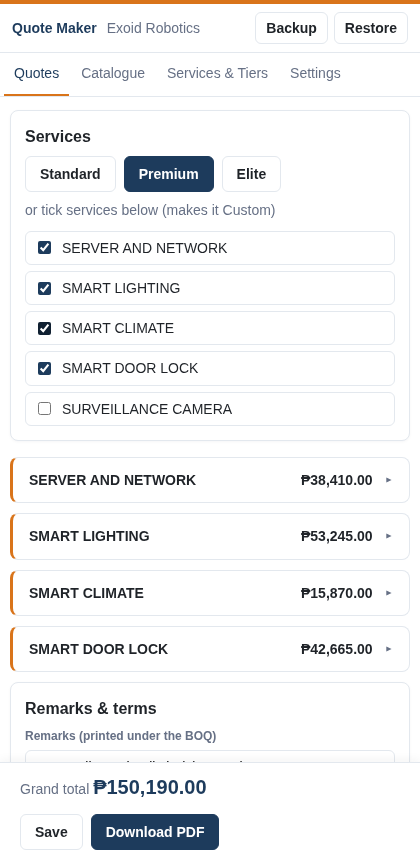
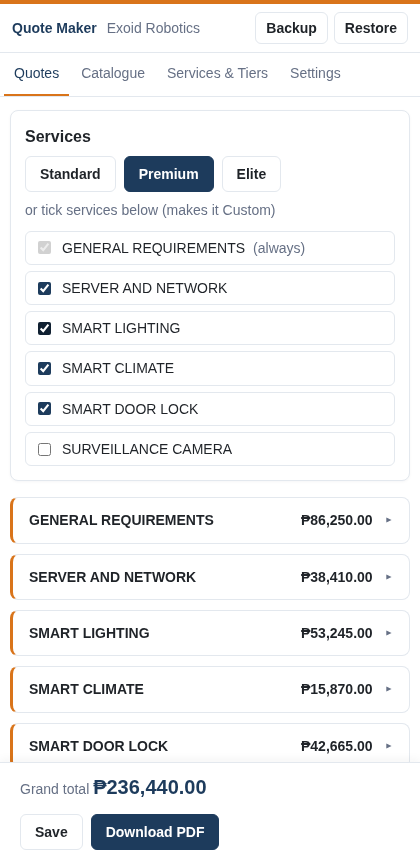
feat: General Requirements always on every quote, and listed in What's included
- services can be marked Always included (General Requirements is by default, also on
  quotes saved earlier); they are ticked and locked on quotes and never change the tier name
- What's included lists Rendered Interactive Floorplan, Mobilization/Demobilization and
  Project Management with default texts

diff --git a/src/model.js b/src/model.js
@@ -44,16 +44,21 @@ export function snapshotPayItem(tpl, catalogue) {
   };
 }
 
+// On every quote whatever the tier (floorplan, mobilization, project management): flagged in Services & Tiers,
+// and General Requirements counts by default so existing templates need no setup.
+export const isAlways = svc => svc.always ?? /general requirements/i.test(svc.title || '');
+
 const snapshotService = (svc, catalogue) => ({
-  serviceId: svc.id, title: svc.title, order: svc.order, about: svc.about ?? '',
+  serviceId: svc.id, title: svc.title, order: svc.order, about: svc.about ?? '', always: isAlways(svc),
   payItems: svc.payItems.map(p => snapshotPayItem(p, catalogue)),
 });
 const byOrder = (a, b) => (a.order ?? 0) - (b.order ?? 0);
 
-export function tierFor(serviceIds, tiers) {
-  const set = new Set(serviceIds);
+// `skip`: always-included service ids, which never decide the tier.
+export function tierFor(serviceIds, tiers, skip = []) {
+  const set = new Set(serviceIds.filter(id => !skip.includes(id)));
   if (!set.size) return 'Custom';
-  const t = tiers.find(t => t.serviceIds.length === set.size && t.serviceIds.every(id => set.has(id)));
+  const t = tiers.find(t => { const ids = t.serviceIds.filter(id => !skip.includes(id)); return ids.length === set.size && ids.every(id => set.has(id)); });
   return t ? t.name : 'Custom';
 }
 
@@ -80,7 +85,7 @@ export function buildQuote({ services, catalogue, settings, serviceIds, tierName
     client: { owner: '', address: '', project: '', email: '' },
     contractor: { enterprise: '', rep: '', contact: '', email: '' },
     generalContractor: '', conforme: { name: '', title: 'Owner' },
-    services: services.filter(s => serviceIds.includes(s.id)).sort(byOrder).map(s => snapshotService(s, catalogue)),
+    services: services.filter(s => serviceIds.includes(s.id) || isAlways(s)).sort(byOrder).map(s => snapshotService(s, catalogue)),
     remarks: '',
     paymentTerms: structuredClone(settings.paymentTerms),
     preparer: structuredClone(settings.preparer),
@@ -88,14 +93,18 @@ export function buildQuote({ services, catalogue, settings, serviceIds, tierName
   };
 }
 
+const tierOf = (services, tiers) => tierFor(services.map(s => s.serviceId), tiers, services.filter(isAlways).map(s => s.serviceId));
+
 export function addService(quote, service, catalogue, tiers) {
   const services = [...quote.services.filter(s => s.serviceId !== service.id), snapshotService(service, catalogue)].sort(byOrder);
-  return { ...quote, services, tierName: tierFor(services.map(s => s.serviceId), tiers) };
+  return { ...quote, services, tierName: tierOf(services, tiers) };
 }
 
 export function removeService(quote, serviceId, tiers) {
+  const svc = quote.services.find(s => s.serviceId === serviceId);
+  if (svc && isAlways(svc)) return quote;
   const services = quote.services.filter(s => s.serviceId !== serviceId);
-  return { ...quote, services, tierName: tierFor(services.map(s => s.serviceId), tiers) };
+  return { ...quote, services, tierName: tierOf(services, tiers) };
 }
 
 export function duplicateQuote(quote) {
@@ -105,7 +114,7 @@ export function duplicateQuote(quote) {
 
 // Clicking a tier: select exactly its services; services already on the quote keep their edits.
 export function applyTier(quote, tier, services, catalogue, tiers) {
-  const chosen = services.filter(s => tier.serviceIds.includes(s.id)).sort(byOrder)
+  const chosen = services.filter(s => tier.serviceIds.includes(s.id) || isAlways(s)).sort(byOrder)
     .map(s => quote.services.find(q => q.serviceId === s.id) ?? snapshotService(s, catalogue));
-  return { ...quote, services: chosen, tierName: tierFor(chosen.map(s => s.serviceId), tiers) };
+  return { ...quote, services: chosen, tierName: tierOf(chosen, tiers) };
 }

diff --git a/src/pdf.js b/src/pdf.js
@@ -2,6 +2,7 @@
 // cover → what's included → BOQ → Proforma Invoice → one DUPA per pay item. Tables keep the Casa layout.
 import { quoteTotals, lineQty, lineTotal, fmtNum, num } from './calc.js';
 import { aboutFor, aboutTitle } from './about.js';
+import { isAlways } from './model.js';
 
 // Brand: navy #1D3B5C (headings, table heads, totals, icon badges), orange #D9741A (small accents), white pages.
 const C = { navy: '#1D3B5C', orange: '#D9741A', soft: '#EAF0F6', warm: '#FBEFE3', zebra: '#F7F9FB', ink: '#1F2328', muted: '#667085', line: '#E3E8EE' };
@@ -55,7 +56,7 @@ const ICONS = {
 const ICON_RULES = [
   [/light|switch|lamp/i, 'bulb'], [/climate|aircon|\bac\b|hvac/i, 'climate'], [/lock|door/i, 'lock'],
   [/camera|cctv|surveillance/i, 'camera'], [/server|network|wifi|wi-fi/i, 'wifi'], [/cover|curtain|blind|shade/i, 'curtain'],
-  [/gate/i, 'gate'], [/presence|sensor|alarm|entry|security/i, 'shield'], [/voice|alexa|google|speaker/i, 'mic'],
+  [/mobili[sz]|management|supervis/i, 'tools'], [/gate/i, 'gate'], [/presence|sensor|alarm|entry|security/i, 'shield'], [/voice|alexa|google|speaker/i, 'mic'],
   [/panel|control|tablet|screen/i, 'panel'], [/film|glass|window/i, 'film'], [/wiring|electrical|requirement|condition|assessment/i, 'tools'],
 ];
 const iconFor = title => ICON_RULES.find(([re]) => re.test(title))?.[1] ?? 'house';
@@ -202,17 +203,20 @@ function coverPage(q, settings) {
 // One paragraph per included service: its own description, else the default for its kind. No counts or prices.
 function includedPage(q, totals) {
   const sections = [...new Set(totals.items.map(it => it.serviceIdx))].map(i => q.services[i]);
-  const entries = sections.map(svc => ({ svc, about: s(svc.about).trim() || aboutFor(svc.title) })).filter(e => e.about);
+  // Always-included services (General Requirements) list their own items: floorplan, mobilization, project management.
+  const entries = sections.flatMap(svc => (isAlways(svc) && !s(svc.about).trim()
+    ? svc.payItems.map(p => ({ svc, title: s(p.description), about: aboutFor(p.description) }))
+    : [{ svc, title: svc.title, about: s(svc.about).trim() || aboutFor(svc.title) }])).filter(e => e.about);
   const dense = entries.length > 8; // keep a full Elite list on one page
   return [
     { text: '', pageBreak: 'before' },
     sectionTitle("WHAT'S INCLUDED"),
     { text: `Your ${s(q.tierName)} smart home package.`, color: C.muted, margin: [0, -4, 0, dense ? 10 : 16] },
-    ...entries.map(({ svc, about }) => ({
+    ...entries.map(({ svc, title, about }) => ({
       unbreakable: true, margin: [0, 0, 0, dense ? 9 : 14], columnGap: 12,
       columns: [
-        { ...icon(iconFor(svc.title), dense ? 20 : 24), width: dense ? 20 : 24 },
-        { width: '*', fontSize: dense ? 8.6 : 9.5, lineHeight: 1.25, text: [{ text: `${aboutTitle(svc.title)}: `, bold: true, color: C.navy }, about] },
+        { ...icon(iconFor(title), dense ? 20 : 24), width: dense ? 20 : 24 },
+        { width: '*', fontSize: dense ? 8.6 : 9.5, lineHeight: 1.25, text: [{ text: `${isAlways(svc) ? title : aboutTitle(title)}: `, bold: true, color: C.navy }, about] },
       ],
     })),
   ];

diff --git a/src/ui/quote.js b/src/ui/quote.js
@@ -1,6 +1,6 @@
 import { esc, field, bindInputs, debounce, money, showValue, readInput } from './dom.js';
 import { mountTerms } from './settings.js';
-import { addService, removeService, applyTier, suggestCode, addMonths } from '../model.js';
+import { addService, removeService, applyTier, suggestCode, addMonths, isAlways } from '../model.js';
 import { quoteTotals, payItemTotals, lineQty, lineTotal, fmtNum, num } from '../calc.js';
 import { downloadPdf } from '../pdf.js';
 
@@ -117,7 +117,9 @@ export function render(main, ctx, id) {
       <div class="row" style="margin-bottom:10px">${tiers.map(t => `<button class="chip ${q.tierName === t.name ? 'on' : ''}" data-tier="${esc(t.id)}"
         ${t.serviceIds.length ? '' : 'disabled title="No services in this tier yet (Services & Tiers)"'}>${esc(t.name)}</button>`).join('')}
         <span class="muted">or tick services below (makes it Custom)</span></div>
-      <div class="checks">${[...services].sort((a, b) => a.order - b.order).map(s => `<label><input type="checkbox" data-svc="${esc(s.id)}" ${on.has(s.id) ? 'checked' : ''}> ${esc(s.title)}</label>`).join('')}
+      <div class="checks">${[...services].sort((a, b) => a.order - b.order).map(s => (isAlways(s)
+        ? `<label title="Always included (Services & Tiers)"><input type="checkbox" checked disabled> ${esc(s.title)} <span class="muted">(always)</span></label>`
+        : `<label><input type="checkbox" data-svc="${esc(s.id)}" ${on.has(s.id) ? 'checked' : ''}> ${esc(s.title)}</label>`)).join('')}
         ${q.services.filter(s => !services.some(x => x.id === s.serviceId)).map(s => `<label><input type="checkbox" data-svc="${esc(s.serviceId)}" checked> ${esc(s.title)} <span class="muted">(no longer in templates)</span></label>`).join('')}</div>`;
     main.querySelector('[data-tier-label]').textContent = q.tierName;
   };
@@ -125,7 +127,7 @@ export function render(main, ctx, id) {
     const b = e.target.closest('[data-tier]');
     if (!b) return;
     const tier = tiers.find(t => t.id === b.dataset.tier);
-    const leaving = q.services.filter(s => !tier.serviceIds.includes(s.serviceId));
+    const leaving = q.services.filter(s => !isAlways(s) && !tier.serviceIds.includes(s.serviceId));
     if (leaving.length && !confirm(`Switch to ${tier.name}? This removes: ${leaving.map(s => s.title).join(', ')}.`)) return;
     Object.assign(q, applyTier(q, tier, services, catalogue, tiers), { paymentTerms: q.paymentTerms });
     afterServicesChanged();

diff --git a/tests/model.test.js b/tests/model.test.js
@@ -1,6 +1,6 @@
 import { test } from 'node:test';
 import assert from 'node:assert/strict';
-import { newId, DEFAULT_SETTINGS, snapshotPayItem, buildQuote, addService, removeService, tierFor, suggestCode, duplicateQuote, addMonths, applyTier } from '../src/model.js';
+import { newId, DEFAULT_SETTINGS, snapshotPayItem, buildQuote, addService, removeService, tierFor, suggestCode, duplicateQuote, addMonths, applyTier, isAlways } from '../src/model.js';
 import { quoteTotals } from '../src/calc.js';
 
 const catalogue = [
@@ -106,4 +106,31 @@ test('quotes keep the service description from the template', () => {
   const svc = [{ ...services[1], about: 'Climate words' }];
   const q = buildQuote({ services: svc, catalogue, settings: DEFAULT_SETTINGS, serviceIds: ['climate'], tierName: 'Custom', today: '2026-10-23' });
   assert.equal(q.services[0].about, 'Climate words');
+});
+
+// General Requirements (floorplan, mobilization, project management) is on every quote, whatever the tier.
+const gen = { id: 'gen', title: 'GENERAL REQUIREMENTS', order: 0, payItems: [tpl('plan', 'sw', 'g1')] };
+const withGen = [gen, ...services];
+
+test('always-included services: General Requirements by title, or the always flag', () => {
+  assert.equal(isAlways(gen), true);
+  assert.equal(isAlways(services[0]), false);
+  assert.equal(isAlways({ ...services[0], always: true }), true);
+  assert.equal(isAlways({ ...gen, always: false }), false);
+});
+
+test('new quotes and tiers always include General Requirements, and the tier name still matches', () => {
+  const q = buildQuote({ services: withGen, catalogue, settings: DEFAULT_SETTINGS, serviceIds: [], tierName: 'Custom', today: '2026-11-24' });
+  assert.deepEqual(q.services.map(s => s.serviceId), ['gen']);
+  const t = applyTier(q, tiers[0], withGen, catalogue, tiers);
+  assert.deepEqual(t.services.map(s => s.serviceId), ['gen', 'climate', 'lighting']);
+  assert.equal(t.tierName, 'Premium');
+  const back = removeService(t, 'lighting', tiers);
+  assert.equal(back.tierName, 'Custom');
+  assert.equal(addService(back, services[0], catalogue, tiers).tierName, 'Premium');
+});
+
+test('General Requirements cannot be removed from a quote', () => {
+  const q = buildQuote({ services: withGen, catalogue, settings: DEFAULT_SETTINGS, serviceIds: ['climate'], tierName: 'Custom', today: '2026-11-24' });
+  assert.deepEqual(removeService(q, 'gen', tiers).services.map(s => s.serviceId), ['gen', 'climate']);
 });

diff --git a/src/ui/services.js b/src/ui/services.js
@@ -1,6 +1,6 @@
 import { aboutFor } from '../about.js';
 import { esc, setPath, readInput, debounce, showValue } from './dom.js';
-import { newId, snapshotPayItem } from '../model.js';
+import { newId, snapshotPayItem, isAlways } from '../model.js';
 import { payItemTotals, fmtPeso } from '../calc.js';
 
 const KINDS = [['material', 'Materials'], ['labor', 'Labor'], ['equipment', 'Equipment']];
@@ -152,7 +152,9 @@ function mountDetail(el, svc, ctx) {
       <div class="card"><div class="spread">
         <label class="field" style="flex:1"><span>Service title (BOQ section)</span><input data-title value="${esc(svc.title)}"></label>
         <button class="danger" data-del-svc>Delete service</button></div>
-        <label class="field"><span>Client description ("What's included" page; blank uses the default${aboutFor(svc.title) ? '' : ' — none for this service, so it is left off'})</span>
+        <label class="row" style="margin:6px 0 10px"><input type="checkbox" data-always ${isAlways(svc) ? 'checked' : ''}>
+          Always included in every quote, whatever the tier (e.g. General Requirements: floorplan, mobilization, project management)</label>
+        <label class="field"><span>Client description ("What's included" page; blank uses the default${isAlways(svc) ? ', listed item by item' : aboutFor(svc.title) ? '' : ' — none for this service, so it is left off'})</span>
           <textarea data-about rows="3" placeholder="${esc(aboutFor(svc.title))}">${esc(svc.about ?? '')}</textarea></label></div>
       ${svc.payItems.map((p, i) => payItemHtml(p, i, catalogue)).join('')}
       <button class="ghost" data-add-pi>+ Add pay item</button>`;
@@ -170,6 +172,7 @@ function mountDetail(el, svc, ctx) {
     const t = e.target;
     if (t.matches('[data-title]')) { svc.title = t.value; return save(); }
     if (t.matches('[data-about]')) { svc.about = t.value; return save(); }
+    if (t.matches('[data-always]')) { svc.always = t.checked; return save(); }
     const pi = piOf(t);
     if (!pi) return;
     if (t.dataset.ppath) {

diff --git a/src/about.js b/src/about.js
@@ -1,6 +1,10 @@
 // Default client-facing descriptions for the "What's included" page, matched by service title.
 // A service's own description (Services & Tiers) always wins; services with neither are left off that page.
 const DEFAULTS = [
+  // General Requirements items (matched by pay item name)
+  [/floor\s*plan/i, "A custom, 3D-rendered interactive model of your home's floor plan, built from your house plans. It powers the control panel, so every light, aircon and device appears where it is in your home and can be seen and controlled at a glance."],
+  [/mobili[sz]ation/i, "Transport of our team, tools and equipment to and from your site for the duration of the installation, including the delivery of all smart home devices."],
+  [/project management/i, "A dedicated project supervisor manages the installation from start to finish: scheduling, coordination with your contractor and other trades, quality checks, and the final testing and turnover of the system."],
   [/presence/i, "Advanced sensors will be installed in key rooms and bathrooms. These sensors detect your presence, automatically turning on the lights when you enter a room and turning them off after you leave, offering hands-free convenience and ensuring energy is never wasted."],
   [/light/i, "Provides complete control over your home's lighting from anywhere via a smartphone or the control panel. This system enhances convenience and improves energy efficiency by allowing you to ensure lights are never left on unnecessarily."],
   [/climate|aircon|hvac/i, "Allows you to manage your home's temperature remotely, ensuring you always come home to a comfortable environment. You can set intelligent schedules that align with your lifestyle, maximizing comfort while optimizing energy consumption."],

diff --git a/tests/pdf.test.js b/tests/pdf.test.js
@@ -119,6 +119,18 @@ test("what's included: title + description per service, no numbers or prices", (
   assert.ok(!page.some(t => /Existing Condition/i.test(t)), 'services without a description are left out');
 });
 
+test("what's included lists the General Requirements items: floorplan, mobilization, project management", () => {
+  const q = fixture();
+  const item = d => ({ ...structuredClone(q.services[0].payItems[0]), description: d });
+  q.services.unshift({ serviceId: 'gen', title: 'GENERAL REQUIREMENTS', order: 0, // no flag: quotes saved before it existed
+    payItems: ['Rendered Interactive Floorplan', 'Mobilization/Demobilization', 'Temporary Facilities', 'Project Management'].map(item) });
+  const texts = walk(buildDocDefinition(q, DEFAULT_SETTINGS)).texts;
+  const page = texts.slice(texts.indexOf("WHAT'S INCLUDED"), texts.indexOf('BILL OF QUANTITIES'));
+  for (const t of ['Rendered Interactive Floorplan: ', 'Mobilization/Demobilization: ', 'Project Management: ']) assert.ok(page.includes(t), t);
+  assert.ok(!page.includes('Temporary Facilities: '), 'items without a description stay off');
+  assert.ok(page.includes(aboutFor('Project Management')));
+});
+
 test("a service's own description overrides the default", () => {
   const q = fixture();
   q.services[0].about = 'Our own words about climate.';
